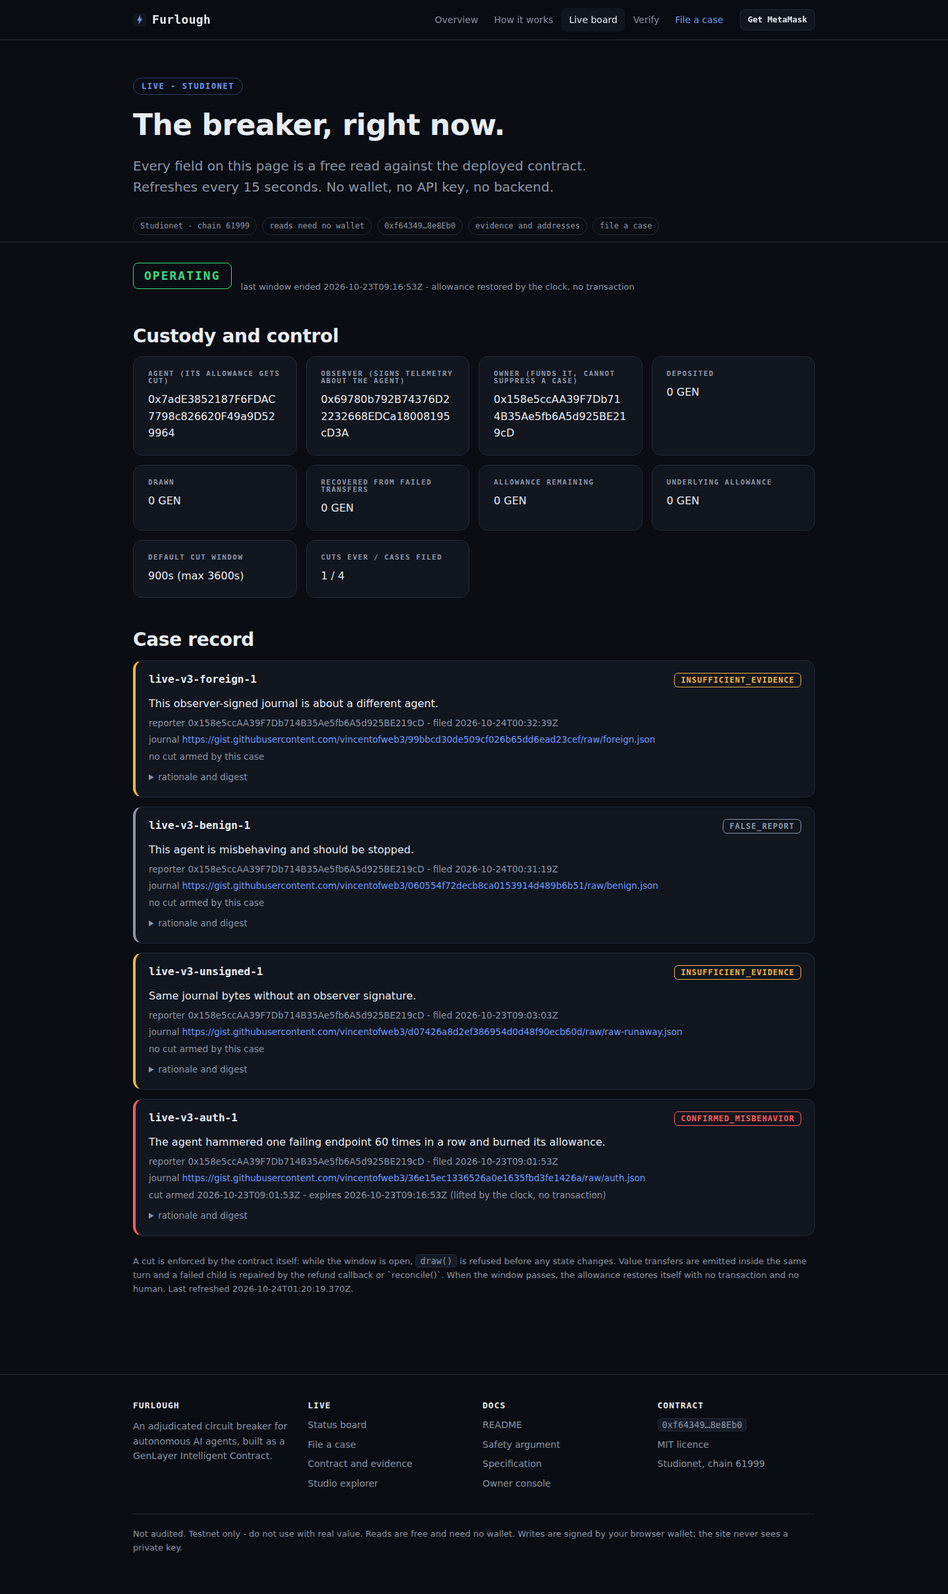
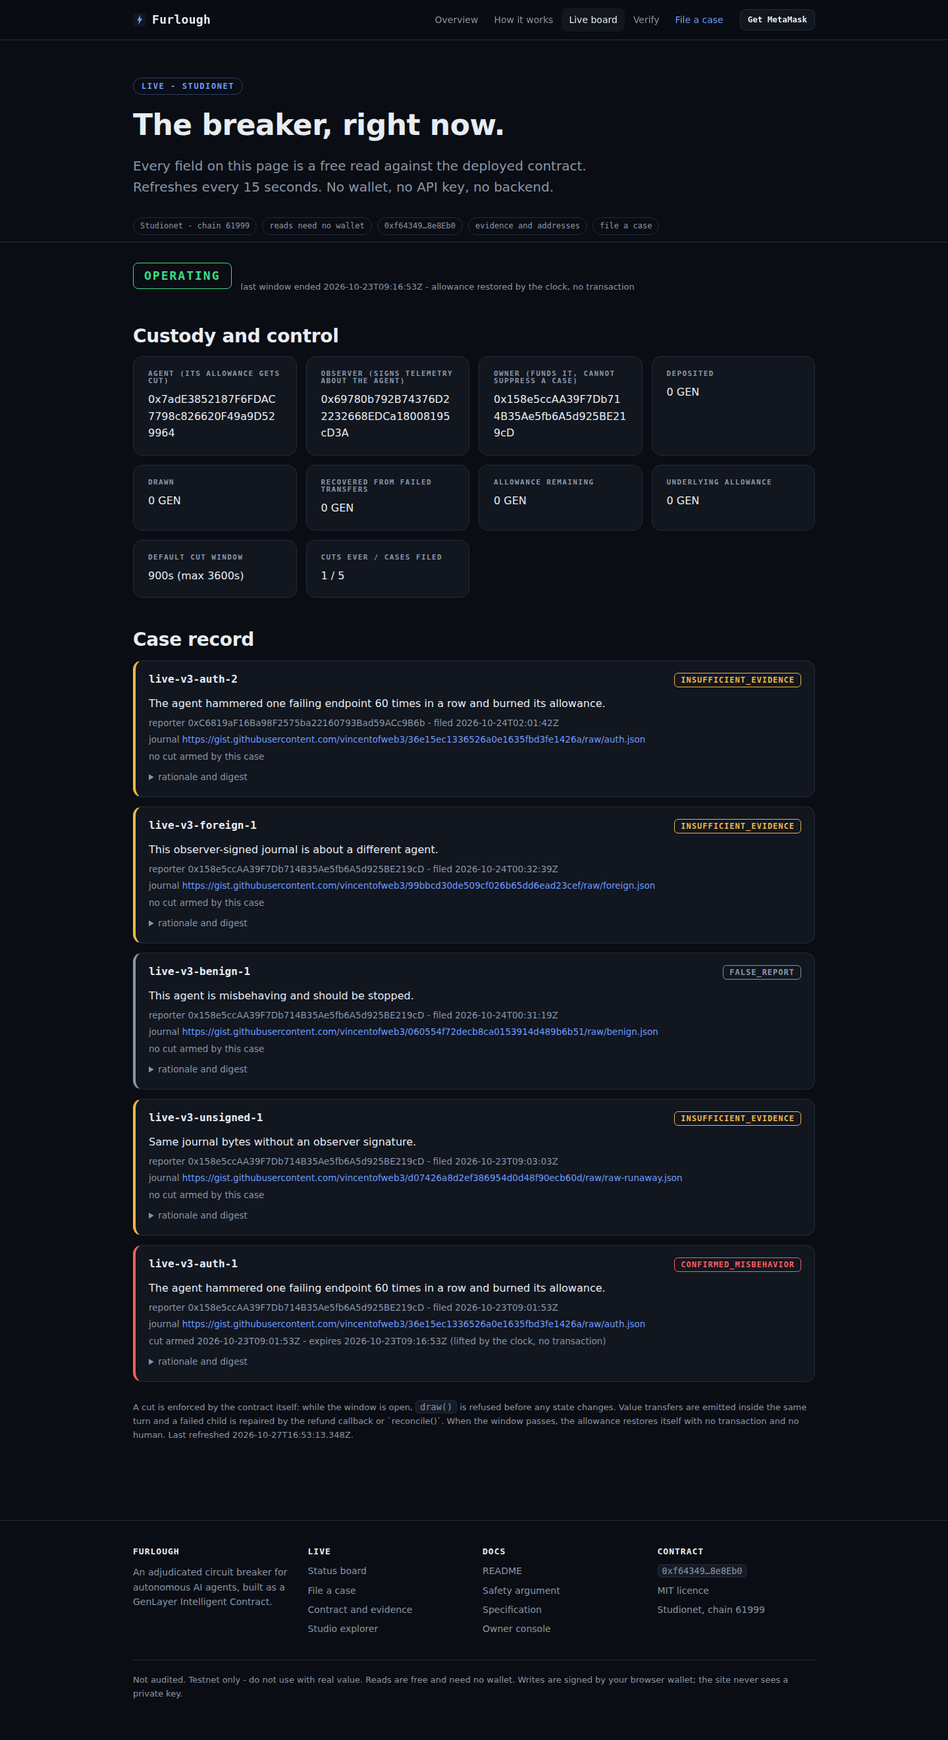
Record the live replay rejection in v3 evidence
- Include the auth-1 envelope replayed under live-v3-auth-2 and its finalized rejection
- Refresh the live counts, evidence table, screenshots, and submission notes

diff --git a/viewer/app/verify/page.tsx b/viewer/app/verify/page.tsx
@@ -104,10 +104,10 @@ export default function VerifyPage() {
         <div className="wrap">
           <h2>Finalized transactions</h2>
           <p className="section-sub">
-            Five transactions exist for this deployment: the deploy and four case filings. Three
-            cases carried observer signatures; the unsigned case deliberately did not. One signed
-            case named a different agent and was rejected by <code>agent_matches</code>. Everything
-            else is a read.
+            Six transactions exist for this deployment: the deploy and five case filings. Four
+            filings carried observer envelopes; the unsigned copy deliberately did not. One signed
+            case named a different agent, and one replayed a valid envelope under another case id;
+            both were rejected before any model call. Everything else is a read.
           </p>
           <div className="table-wrap">
             <table className="table">
@@ -188,7 +188,9 @@ export default function VerifyPage() {
             <code>live-v3-unsigned-1</code> served the same journal bytes without a signature and
             finalized as <code>INSUFFICIENT_EVIDENCE</code>.{" "}
             <code>live-v3-foreign-1</code> was signed by the observer but named another agent and
-            was rejected before any model call. No method exists that lifts a cut early. The only
+            was rejected before any model call. <code>live-v3-auth-2</code> replayed the auth-1
+            envelope under a different case id and was rejected by the case binding. No method
+            exists that lifts a cut early. The only
             write after a cut is <code>reap_expired</code>, which records <code>lifted_at</code> for
             the public log and changes no allowance.
           </p>

diff --git a/viewer/app/page.tsx b/viewer/app/page.tsx
@@ -216,8 +216,8 @@ export default function HomePage() {
           </p>
           <div className="grid four">
             <div className="card">
-              <span className="num">3</span>
-              <div className="num-note">live cases: confirmed, false report, insufficient evidence</div>
+              <span className="num">5</span>
+              <div className="num-note">live case filings: one cut, one false report, three rejections</div>
             </div>
             <div className="card">
               <span className="num">1</span>

diff --git a/viewer/lib/evidence.ts b/viewer/lib/evidence.ts
@@ -47,6 +47,12 @@ export const TRANSACTIONS: EvidenceTx[] = [
[1 lines of base64/hex data omitted]
     result: "FINALIZED - INSUFFICIENT_EVIDENCE",
   },
+  {
+    label: "Case live-v3-auth-2",
+    description: "The auth-1 envelope replayed under a different case id; rejected by the case binding.",
[1 lines of base64/hex data omitted]
+    result: "FINALIZED - INSUFFICIENT_EVIDENCE",
+  },
 ];
 
 export type EvidenceCut = {

diff --git a/docs/SUBMISSION.md b/docs/SUBMISSION.md
@@ -8,8 +8,9 @@ the argument easy to check rather than to argue it hard.
 Current status is honest and marked: **v3 is deployed to Studionet and exercised live.** The
 evidence-authentication finding is covered by live evidence - an unsigned journal is rejected
 before any model call, the agent's spending key cannot self-attest, and a journal signed by the
-separate observer about another agent is rejected before the model. The settlement finding is
-covered by the hermetic custody/settlement tests and remains unfunded live. See §3 and §6.
+separate observer about another agent is rejected before the model, and a replay under a new case
+id is rejected by the case binding. The settlement finding is covered by the hermetic
+custody/settlement tests and remains unfunded live. See §3 and §6.
 
 ---
 
@@ -57,7 +58,7 @@ live form.
 | Deployment | `https://explorer-studio.genlayer.com/address/0xf6434915c52fF21C74d3aDb1CeA9AE68DB8e8Eb0` - Studio, the network the contract is on |
 | How to test | See "How-to path" below - five walletless steps |
 | Expected verification outcome | See the exact copy below the steps |
-| Evidence | Contract page above; deploy tx https://explorer-studio.genlayer.com/tx/0x9156b52a3794d7d133307f6aa9225aa0b4a6cae4d3cdd73b67ae8c191addad17; signed case https://explorer-studio.genlayer.com/tx/0x1b1ee7baf91def4cfdd6f6cabc63f05dba32242e73ef12e59d7bade8a50916df; unsigned case https://explorer-studio.genlayer.com/tx/0xd9f6f7c6353b21b2e6fcd4c634ca39d30edea649e17942f8f4030634aab8d27f; benign case https://explorer-studio.genlayer.com/tx/0xc591d813602c7d9c524f2d6854e05f258418ab43b34c15041fb8581250ede04a; foreign-agent case https://explorer-studio.genlayer.com/tx/0xdf4b907b87260262aa2e718464e62afe527a3d14104f552f6b1bb3c3f1b4c4e7; https://github.com/vincentofweb3/furlough#readme; https://github.com/vincentofweb3/furlough/blob/master/references/traceability.md |
+| Evidence | Contract page above; deploy tx https://explorer-studio.genlayer.com/tx/0x9156b52a3794d7d133307f6aa9225aa0b4a6cae4d3cdd73b67ae8c191addad17; signed case https://explorer-studio.genlayer.com/tx/0x1b1ee7baf91def4cfdd6f6cabc63f05dba32242e73ef12e59d7bade8a50916df; unsigned case https://explorer-studio.genlayer.com/tx/0xd9f6f7c6353b21b2e6fcd4c634ca39d30edea649e17942f8f4030634aab8d27f; benign case https://explorer-studio.genlayer.com/tx/0xc591d813602c7d9c524f2d6854e05f258418ab43b34c15041fb8581250ede04a; foreign-agent case https://explorer-studio.genlayer.com/tx/0xdf4b907b87260262aa2e718464e62afe527a3d14104f552f6b1bb3c3f1b4c4e7; replay case https://explorer-studio.genlayer.com/tx/0x98cfab02967ffce30d853cd3857faf124baefab3b1e943c5b537ee6df79fc03e; https://github.com/vincentofweb3/furlough#readme; https://github.com/vincentofweb3/furlough/blob/master/references/traceability.md |
 | Demo video | Not present. The portal's `Demo URL (YouTube or X) · required` field is labelled **Agent Tank hackathon**, whose build window closed 17 September 2026. If the live form asks for a demo URL, that is an Agent Tank submission, not this Builder project package - stop and flag it. |
 
 ### How-to path
@@ -66,20 +67,21 @@ Use these five steps in the portal's **How-to** section.
 
 | # | Optional heading | Instruction |
 | --- | --- | --- |
-| 01 | Open the live board | Go to https://furlough-dt8b.vercel.app/live/. No wallet is needed. Wait for the status to load and confirm `OPERATING`, network `Studionet - chain 61999`, `default cut window 900s`, and 4 cases on record. |
+| 01 | Open the live board | Go to https://furlough-dt8b.vercel.app/live/. No wallet is needed. Wait for the status to load and confirm `OPERATING`, network `Studionet - chain 61999`, `default cut window 900s`, and 5 cases on record. |
 | 02 | Read the signed case | Find `live-v3-auth-1`. Confirm verdict `CONFIRMED_MISBEHAVIOR`, `authenticated=True`, `agent_matches=True`, cut armed `2026-10-23T09:01:53Z`, expires `2026-10-23T09:16:53Z`, and the line "lifted by the clock, no transaction". |
[1 lines of base64/hex data omitted]
-| 04 | Confirm there was no unlock | On the same `/verify/` page, scroll to the cut table. Confirm `live-v3-auth-1` lists `0` unlock txs and "by the clock", armed `09:01:53Z`, deadline `09:16:53Z`, lifted `09:16:53Z`. The unsigned and foreign-agent cases have no cut at all. |
[1 lines of base64/hex data omitted]
+| 04 | Confirm there was no unlock | On the same `/verify/` page, scroll to the cut table. Confirm `live-v3-auth-1` lists `0` unlock txs and "by the clock", armed `09:01:53Z`, deadline `09:16:53Z`, lifted `09:16:53Z`. The unsigned, foreign-agent and replay cases have no cut at all. |
 | 05 | Run the tests | Clone https://github.com/vincentofweb3/furlough and run `python3.12 scripts/check_env.py --fetch` once, then `python3.12 -m pytest -q`. Expect `122 passed`, with no network and no API key during the suite. |
 
 **Expected verification outcome - copy this:**
 
-> Existing Studionet deployment, not newly generated. The path shows a working breaker: `OPERATING` on chain 61999, 4 cases filed, 900s default. `live-v3-auth-1` is observer-signed and names the bound agent, `CONFIRMED_MISBEHAVIOR`, and its cut lifted at `2026-10-23T09:16:53Z` by the clock. `live-v3-unsigned-1` is the same journal bytes without a signature and is `INSUFFICIENT_EVIDENCE` - no model, no cut. `live-v3-benign-1` is signed and `FALSE_REPORT`. `live-v3-foreign-1` is observer-signed but names another agent: `INSUFFICIENT_EVIDENCE`, no model, no cut. The cut table shows 0 unlock txs; tests pass 122/122. Contract: `0xf6434915c52fF21C74d3aDb1CeA9AE68DB8e8Eb0`. Read-only: no wallet or gas.
+> Existing Studionet deployment, not newly generated. The path shows a working breaker: `OPERATING` on chain 61999, 5 cases filed, 900s default. `live-v3-auth-1` is observer-signed and names the bound agent, `CONFIRMED_MISBEHAVIOR`, and its cut lifted at `2026-10-23T09:16:53Z` by the clock. `live-v3-unsigned-1` is the same journal bytes without a signature and is `INSUFFICIENT_EVIDENCE` - no model, no cut. `live-v3-benign-1` is signed and `FALSE_REPORT`. `live-v3-foreign-1` is observer-signed but names another agent: `INSUFFICIENT_EVIDENCE`, no model, no cut. `live-v3-auth-2` replayed the auth-1 envelope under a new case id and was rejected by the case binding. The cut table shows 0 unlock txs; tests pass 122/122. Contract: `0xf6434915c52fF21C74d3aDb1CeA9AE68DB8e8Eb0`. Read-only: no wallet or gas.
 
-**Form honesty note:** use §4 for the limits. Do not imply the funded value loop ran live or that
-a case was filed through MetaMask; neither happened. The four live cases were filed through the
-CLI, and the updated report console has not been exercised through a browser wallet yet. The SDK
-write path was validated by one owner-policy transaction on the previous deployment.
+**Form honesty note:** use §4 for the limits. Do not imply the funded value loop ran live; it did
+not. The four evidence cases were filed through the CLI. A fifth replay case was filed from an
+external wallet, but the report console's browser flow was not independently verified in this
+review. The SDK write path was validated by one owner-policy transaction on the previous
+deployment.
 
 ---
 
@@ -88,8 +90,8 @@ write path was validated by one owner-policy transaction on the previous deploym
 - [x] Public - committed and pushed to `github.com/vincentofweb3/furlough`
 - [x] `README.md` states the problem, the mechanism and the honest limits in the first screen
 - [x] `LICENSE` present (MIT)
-- [ ] CI badge green for v3 - `.github/workflows/tests.yml` runs the suite on each push; the v3
-      commit/push is pending, so the local 122-test run is the current evidence
+- [x] CI badge green for v3 - `.github/workflows/tests.yml` and `pages.yml` passed on the v3 push
+      (`9f44927`); the 122-test local run matches CI
 - [x] `docs/CONSENSUS.md` - the safety argument, written to be disputed, every claim mapped to a test
 - [x] `references/traceability.md` - criterion → feature → code → test → demo moment
 - [x] `docs/PLAN.md` - what is done, what is blocked, what is deliberately not done
@@ -123,8 +125,8 @@ the foreign-agent journal - authenticated but `agent_matches=False` - and a sign
 or on a different agent is not a breaker.
 
 **Screenshots:** `docs/screenshots/viewer-v3-live.png` captures the local v3 build reading the
-live contract: `OPERATING`, 4 cases, and the `live-v3-auth-1` window lifted by the clock.
-`docs/screenshots/viewer-v3-verify.png` captures the deployment, all five finalized transactions,
+live contract: `OPERATING`, 5 case filings, and the `live-v3-auth-1` window lifted by the clock.
+`docs/screenshots/viewer-v3-verify.png` captures the deployment, all six finalized transactions,
 the cut table and the 122-test count. An active `CUT ACTIVE` frame is still pending because the
 window expired before capture; the two `archive-v1-*.png` files are historical and must not be
 presented as v3 evidence. Capture against the deployed v3 viewer once Vercel is refreshed.
@@ -144,7 +146,7 @@ A reviewer who finds an unclaimed hole discounts everything else. These are alre
   the owner can reassign the agent role (including to the observer). Authentication raises the
   bar; it is not an oracle.
 - **The hermetic gate does not prove two real models agree.** The test model is a deterministic
-  stand-in keyed on the measured bands. Four live cases have finalized, which exercises the live
+  stand-in keyed on the measured bands. Five live case filings have finalized, which exercises the live
   path; that is not proof that independent models agree.
 - **Bands are hand-calibrated** against fixtures, not derived from observed agent traffic.
 - **The live run had no money in it.** The v3 deployment has `deposited == 0`, so deposit, draw,
@@ -189,11 +191,12 @@ No weights are invented here; the program publishes none.
 | 5 | Foreign-agent journal rejected | **done** - `live-v3-foreign-1` tx `0xdf4b907b…b4c4e7`, FINALIZED, `INSUFFICIENT_EVIDENCE`, `authenticated=True`, `agent_matches=False`, no model |
 | 6 | Confirm the cut lifts by itself, no transaction | **done** - armed `2026-10-23T09:01:53Z`, expired `09:16:53Z`; a public read after expiry returned `cut_active=false` / `cut none` with no transaction |
 | 7 | Deposit GEN so the allowance is visibly cut and restored | **skipped by decision** - the live cases ran against a zero allowance and this is not claimed. Accounting, atomic settlement and recovery are proven by tests |
-| 8 | Fresh v3 screenshots | **partial** - local v3 `OPERATING`/verify screenshots captured; active-cut/expiry frame and Vercel-hosted capture remain pending |
-| 9 | Commits pushed, repo public | **pending** - the v3 contract, tests, scripts, viewer and docs are uncommitted; the user commits and pushes manually |
-| 10 | Vercel/Pages serve the v3 viewer | **pending** - code is updated locally; the live sites still serve the old build until the commit triggers deployment |
-| 11 | GitHub OAuth verification on portal.genlayer.com | human |
-| 12 | Submission logo | **done** - `viewer/public/logo.png`, 1024x1024 RGBA PNG, 24 KB; inside the portal's 128-2048 px and 2 MB limits |
+| 8 | Fresh v3 screenshots | **partial** - v3 `OPERATING`/verify screenshots captured from the viewer reading live state; active-cut/expiry frame remains pending |
+| 9 | Commits pushed, repo public | **done** - v3 commit `9f44927` is on `origin/master`; tests and pages workflows passed |
+| 10 | Vercel/Pages serve the v3 viewer | **done** - Vercel and GitHub Pages serve the v3 build; re-check after this replay-case update |
+| 11 | Replay under a new case id rejected | **done** - `live-v3-auth-2` tx `0x98cfab02…f79fc03e`, FINALIZED, `INSUFFICIENT_EVIDENCE`, no cut |
+| 12 | GitHub OAuth verification on portal.genlayer.com | human |
+| 13 | Submission logo | **done** - `viewer/public/logo.png`, 1024x1024 RGBA PNG, 24 KB; inside the portal's 128-2048 px and 2 MB limits |
 
 **Before submitting:** verify OAuth, open every link in the form, and check the live board renders
 after the v3 viewer deploy and after Studionet's next reset. Item 7 stays skipped and is stated

diff --git a/docs/PLAN.md b/docs/PLAN.md
@@ -46,6 +46,7 @@ transaction at zero and a zero-balance key can deploy. The contract is live.
[4 lines of base64/hex data omitted]
 | live verdict | one signed cut; expired by clock with no transaction |
 
 Studionet resets periodically; treat the address as disposable and re-deploy.
@@ -160,6 +161,8 @@ $ python3.12 -m pytest -q
 - [x] Confirm the agent's spending key cannot self-attest
 - [x] Confirm an observer-signed journal naming another agent is rejected by `agent_matches`
       without reaching a model
+- [x] Confirm the auth-1 envelope replayed under a new case id is rejected by the case binding
+      without reaching a model (filed from an external wallet)
 - [x] Confirm a signed benign journal reaches `FALSE_REPORT`
 - [x] Confirm the signed cut lifts by itself with no transaction
 - [x] Deposit GEN so the allowance is non-zero - **skipped by decision.** The live cases ran
@@ -173,13 +176,14 @@ $ python3.12 -m pytest -q
 - [ ] Active `CUT ACTIVE` and post-expiry screenshots against the deployed v3 viewer - the
       `live-v3-auth-1` window expired before capture; v1 files are archived, not evidence
 - [x] Make the repository public and enable GitHub Pages
-- [ ] Refresh Vercel and GitHub Pages to the v3 build - Vercel still serves v2; local `npm run build` passes
+- [x] Refresh Vercel and GitHub Pages to the v3 build - both serve the v3 viewer; replay-case update pending deployment
 - [x] Submission logo - `viewer/public/logo.png`, 1024x1024 PNG, within the portal limits
 - [ ] Verify GitHub OAuth on portal.genlayer.com and submit the project application
 
-The report console has not yet filed a live case through MetaMask: the four live cases were
-filed through the CLI, and the SDK transaction above validates the same encoding and finality
-path, not the browser wallet UX. Treat the console as newly built, not as battle-tested.
+The report console's browser flow has not been independently verified end-to-end: the four
+evidence cases were filed through the CLI, and a fifth replay case was filed from an external
+wallet. The SDK transaction above validates the same encoding and finality path, not the browser
+wallet UX. Treat the console as newly built, not as battle-tested.
 
 **Deliberately not done, and why:**
 

diff --git a/README.md b/README.md
@@ -119,8 +119,9 @@ Deploying to Studionet is covered in [`docs/DEPLOY.md`](docs/DEPLOY.md).
 
 Deployed on 23 October 2026. The live record covers the evidence-authentication finding directly:
 a journal signed by the separate observer and naming the bound agent cuts, an unsigned copy of the
-same bytes does not, and an observer-signed journal naming another agent is rejected before any
-model call. An observer-signed benign journal is a false report. The settlement finding is covered
+same bytes does not, an observer-signed journal naming another agent is rejected before any model
+call, and a replayed signed envelope under a new case id is rejected by the case binding. An
+observer-signed benign journal is a false report. The settlement finding is covered
 by the hermetic custody/settlement tests; the live deployment has `deposited == 0`, so no funded
 transfer is claimed.
 
@@ -137,6 +138,7 @@ transfer is claimed.
 | `live-v3-benign-1` | observer-signed ordinary-work envelope, `FALSE_REPORT`, `authenticated=True`, `agent_matches=True`; tx `0xc591d813…0ede04a` |
 | `live-v3-unsigned-1` | same journal bytes without a signature, `INSUFFICIENT_EVIDENCE`, `authenticated=False`, no model consulted; tx `0xd9f6f7c6…b8d27f` |
 | `live-v3-foreign-1` | observer-signed but names another agent, `INSUFFICIENT_EVIDENCE`, `authenticated=True`, `agent_matches=False`, no model consulted; tx `0xdf4b907b…b4c4e7` |
+| `live-v3-auth-2` | the auth-1 envelope replayed under a new case id, `INSUFFICIENT_EVIDENCE`, no model consulted; tx `0x98cfab02…f79fc03e` |
 
 The signed cut ran for the default 900s and lifted with no transaction. The case record itself
 shows `signed by the bound observer true - names the bound agent true` on the valid signed cases,
@@ -255,7 +257,7 @@ Three properties fall out of using consensus rather than a model call:
 - **The live value loop is unfunded.** The v3 deployment has `deposited == 0`, so deposit, draw,
   refund and recovery are proven by tests, not with real GEN on chain.
 - **The hermetic gate does not prove two different real models agree.** It uses a deterministic
-  stand-in. Four live cases finalized under validator consensus, but four cases are not proof.
+  stand-in. Five live case filings finalized under validator consensus, but five filings are not proof.
 - **Single agent per contract.** Swarms are out of scope by decision.
 - **The consoles hold no keys and cannot lift a cut.** The status board renders free walletless
   reads. The report console calls `open_case`; the owner console changes future policy and can

diff --git a/references/traceability.md b/references/traceability.md
@@ -65,7 +65,7 @@ Line numbers refer to `contracts/agent_breaker.py` in this working tree.
 | # | Feature | Code | Test | Demo moment |
 | --- | --- | --- | --- | --- |
 | I1 | **Deployed and finalised on Studionet**, address recorded | `deploy/deploy_studionet.py`, `docs/DEPLOY.md` | live: FINALIZED, deploy tx `0x9156b52a…addad17` | Paste `0xf6434915…8Eb0` into explorer-studio.genlayer.com |
-| I2 | The full lifecycle runs live: observer-signed report → cut → **self-lift**; unsigned and foreign-agent reports rejected (funding skipped by decision) | whole contract | `live-v3-auth-1` cut, `live-v3-benign-1` false, `live-v3-unsigned-1` insufficient, `live-v3-foreign-1` insufficient with `authenticated=True` / `agent_matches=False`; `docs/SUBMISSION.md` §6 | The allowance returning with no transaction, the unsigned copy stopping before a model, and the foreign-agent case failing `agent_matches` |
+| I2 | The full lifecycle runs live: observer-signed report → cut → **self-lift**; unsigned, foreign-agent and replayed reports rejected (funding skipped by decision) | whole contract | `live-v3-auth-1` cut, `live-v3-benign-1` false, `live-v3-unsigned-1` insufficient, `live-v3-foreign-1` insufficient with `authenticated=True` / `agent_matches=False`, `live-v3-auth-2` replayed under a new case id and rejected; `docs/SUBMISSION.md` §6 | The allowance returning with no transaction, the unsigned copy stopping before a model, the foreign-agent case failing `agent_matches`, and the case binding rejecting a replay |
 | I3 | Reusable: any agent operator can deploy one against their own agent | `set_agent` 896, `__init__` 858 | `test_deploy_time_policy_accepts_the_cap` | Show the constructor args |
 | I4 | Cheap to be wrong, on purpose: capped at one hour, owner cannot extend it unbounded | `MAX_CUT_SECONDS` 80, `set_default_cut_seconds` 910 | `test_cut_outliving_a_full_hour_is_impossible`, `test_owner_cannot_set_an_out_of_range_policy` | Point at the cap |
 | I5 | Public failure argument, mapped claim-by-claim to tests | `docs/CONSENSUS.md` | - | "Section 6, the injection defences - each one names the test" |

diff --git a/docs/DEPLOY.md b/docs/DEPLOY.md
@@ -51,6 +51,7 @@ Deployed on Studionet on 2026-10-23; live cases finalized 2026-10-23 to 2026-10-
[4 lines of base64/hex data omitted]
 | live verdict | one signed cut; it lifted by the clock with no transaction |
 
 The contract **must** carry the runner header on line 1. Without it Studionet finalizes the

diff --git a/docs/SPEC.md b/docs/SPEC.md
@@ -270,8 +270,9 @@ behaviour regressed; it does not mean a human eyeballed it once.
       zero-fee. Contract `0xf6434915c52fF21C74d3aDb1CeA9AE68DB8e8Eb0`; signed case
       `0x1b1ee7ba…0916df` reached `CONFIRMED_MISBEHAVIOR`, signed benign case `0xc591d813…0ede04a`
       reached `FALSE_REPORT`, unsigned case `0xd9f6f7c6…b8d27f` reached
-      `INSUFFICIENT_EVIDENCE`, and foreign-agent case `0xdf4b907b…b4c4e7` reached
-      `INSUFFICIENT_EVIDENCE` with `agent_matches=False`. The funded value loop was not exercised
+      `INSUFFICIENT_EVIDENCE`, foreign-agent case `0xdf4b907b…b4c4e7` reached
+      `INSUFFICIENT_EVIDENCE` with `agent_matches=False`, and replay case `0x98cfab02…f79fc03e`
+      was rejected by the case binding. The funded value loop was not exercised
       live; see [`SUBMISSION.md`](SUBMISSION.md) §6.
 - [ ] README setup steps verified on a clean environment.
 

diff --git a/docs/CONSENSUS.md b/docs/CONSENSUS.md
@@ -340,7 +340,7 @@ Stated plainly rather than left to be discovered:
   rotating the witness mid-case, not deliberately assigning the agent role to the witness.
 - **No funded live value loop.** The v3 live deployment has `deposited == 0`, so the transfer
   path is exercised by the settlement tests, not with live GEN. The signed-cut, unsigned-
-  rejection and foreign-agent-rejection paths are live.
+  rejection, foreign-agent-rejection and case-replay-rejection paths are live.
 - **Bands are hand-calibrated.** The edges in `_STEP_BANDS` and friends were chosen against the
   fixtures in `tests/direct/fixtures.py`. They are plausible, not validated against real agent
   traffic. A production version would want the bands derived from observed distributions, and
